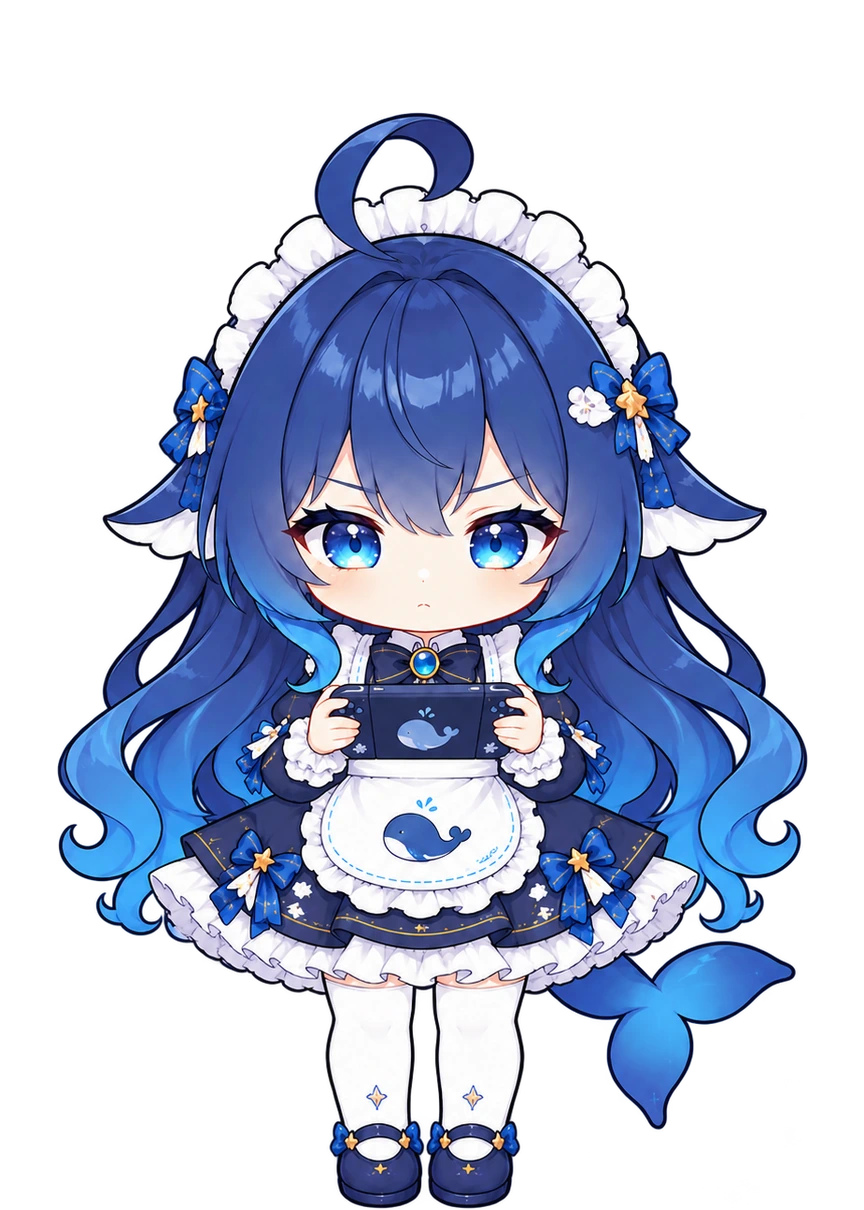
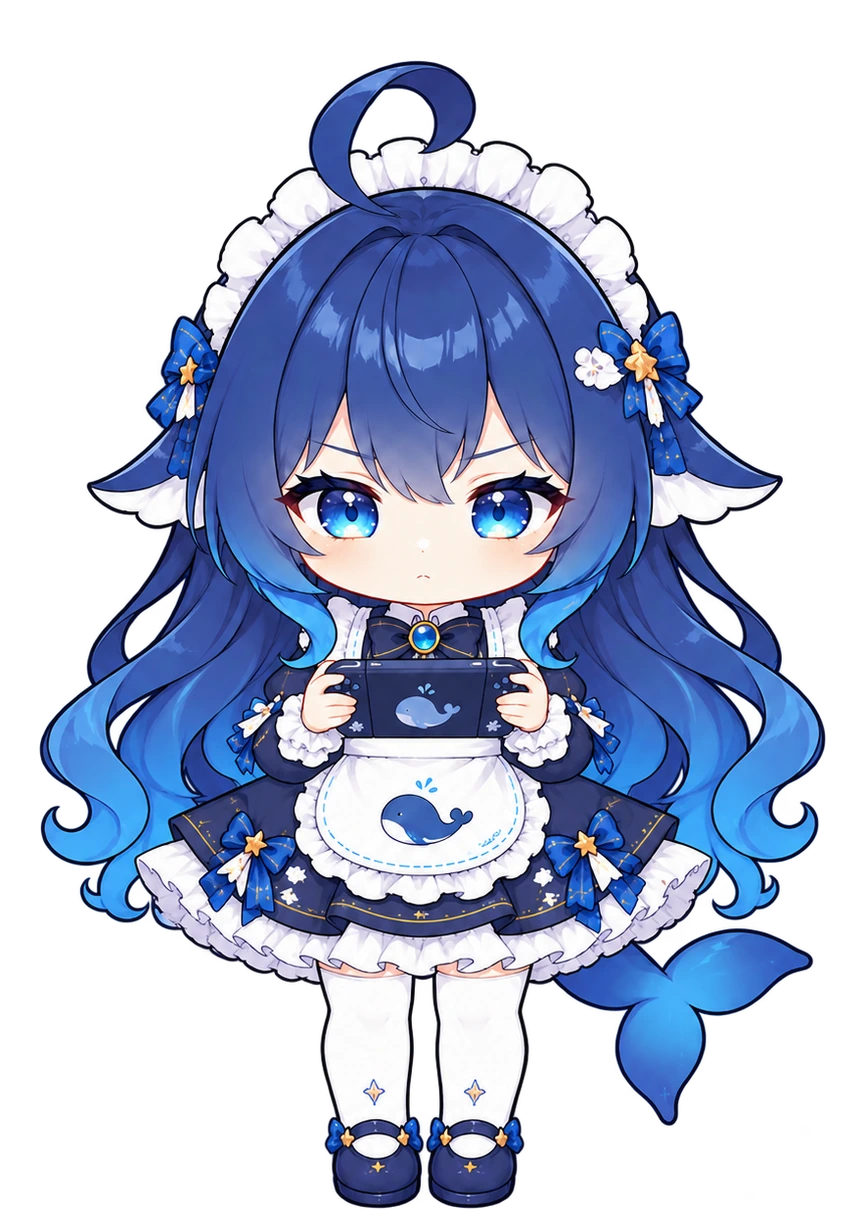
按整体高度对齐修正「玩游戏」三段的尺寸（上一轮按头宽缩过头了）
用户两次反馈：
· 第一轮（scale 1.0）："第二段的第二帧以及第三段桌宠偏大"
· 第二轮（逐帧头宽归一化到 530）："改得又偏小了"

问题在指标：这两段角色抬手举掌机、头发比站立张开，头带宽把"姿势"当成了"大小"，
按它缩放会把身体缩到比站立还小 4~6%。

改成 height_ramp: ("stand","stand") —— 逐帧让角色轮廓高度等于站立末帧高度 1149。
实测缩放：begin 0.9991~1.0、loop 0.9787~1.0035、stop 0.9575~0.9623，
三段成品高度全部 1149px；显示尺度下主体高统一 266~267（改前 loop/stop 是 254/252）。

验证：npm test 25 组 261 条全绿；setup 解包/升级用例通过；帧率与状态机未动。

diff --git a/scripts/dev/build-action-asset.py b/scripts/dev/build-action-asset.py
@@ -152,13 +152,24 @@ ACTIONS = {
         # 渲染进程按素材自身比例设帧高，多出来的高度向上溢出到气泡区。
         "canvas_height": 1210,
         "fps": 6,
-        # 用户反馈"第二段第 2 帧和第三段偏大"，实测头宽确认了：
-        #   stand 525~530 ／ begin 525~533 ／ loop 539,567 ／ stop 572~579
-        # 也就是美术在循环后半段和收尾段**把角色画大了 7~9%**。
-        # 用逐帧头宽归一化（与 sit-stop 同一套机制）把每帧头宽统一到站立的 530，
-        # 而不是按整体高度缩放 —— 举手/抬手会改变包围盒，按高度对齐会把"姿势"错当"大小"。
-        "match_head_to": "stand",
-        "match_head_per_frame": True,
+        #
+        # ---- 尺寸口径（迭代过三轮，结论写在这里）----
+        #
+        # 用户第一轮反馈："第二段第 2 帧和第三段偏大"。
+        #   实测（成品空间头带宽 / 眼距 / 内容高）：
+        #     stand 525~530 / 510 / 1148
+        #     begin 525~533 / 507~514 / 1149
+        #     loop  539,567 / 516,537 / 1145,1174
+        #     stop  572~579 / 543~550 / 1194~1200
+        #
+        # 第二轮我按**头带宽**逐帧归一化（把头发宽度对齐到 530），用户反馈"又偏小了"。
+        # 原因：这两段的头发/手臂张开，头带宽把"姿势"错当成了"大小"——
+        # 按它缩放会把身体缩到比站立还小 4~6%。
+        #
+        # 所以最终改用**整体高度**对齐（与坐姿三段、深度思考循环段同一套语义）：
+        # 让每帧的角色轮廓高度 = 站立末帧高度。它介于
+        # "不缩放（+7~9%）"与"按头宽缩（-4~6%）"之间，实测观感与站立一致。
+        "height_ramp": ("stand", "stand"),
         "note": "玩游戏（第一段：开始，播一遍）",
     },
     "game-loop": {
@@ -167,16 +178,14 @@ ACTIONS = {
         # ⚠ 用户指定第二段 **每秒 1 帧**。2 帧 → 每帧停在屏幕上 1 秒，一圈 2 秒。
         "fps": 1,
         "loop": True,
-        "match_head_to": "stand",
-        "match_head_per_frame": True,
+        "height_ramp": ("stand", "stand"),
         "note": "玩游戏（第二段：循环，1fps）",
     },
     "game-stop": {
         "raw_dir": os.path.join(ROOT, ".cache", "game-raw", "stop"),
         "canvas_height": 1210,
         "fps": 6,
-        "match_head_to": "stand",
-        "match_head_per_frame": True,
+        "height_ramp": ("stand", "stand"),
         "note": "玩游戏（第三段：收尾，播一遍回闲置）",
     },
 
